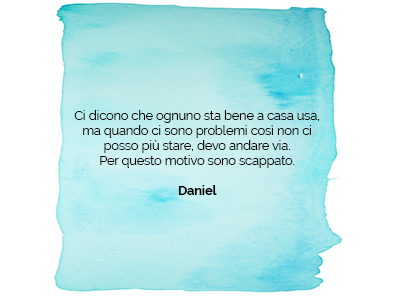
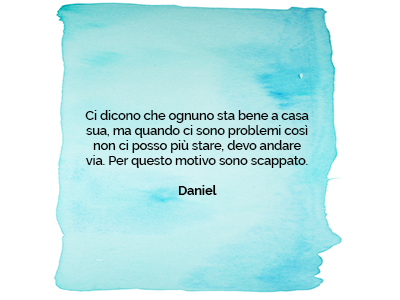
redirect

Changed region(s): [[0.18, 0.36, 0.81, 0.57]]

diff --git a/cosa.html b/cosa.html
@@ -15,7 +15,7 @@
 
 
 <!--testo-->
-<div style="text-align:justify">
+<div id="storia">
 
 <p>L’”utopia realizzata” a Riace è venuta dal mare. Come dal mare sono venuti i Bronzi. Ma a cambiare il volto della città, a farla letteralmente rinascere, ripopolare e arricchirsi (in tutti i sensi) non sono state le attività turistiche per la presenza dei due famosi guerrieri ripescati in fondo al mare davanti a Riace, ma proprio i migranti che hanno avviato una serie di attività
 artigianali ed imprenditoriali che hanno determinato la rivitalizzazione del paese, che ha ridato una speranza a chi è arrivato ma anche a chi ha accolto. La cittadina calabrese, sindaco Mimmo Lucano, ha cominciato a diventare una “comunità ideale” all’indomani dell’arrivo di una barca carica di migranti curdi nel 1998. Invece di respingerli li hanno accolti. Quel giorno il destino di Riace ha cambiato verso. Recentemente la rivista Fortune ha inserito il sindaco di Riace Lucano al quarantesimo posto della classifica dei cinquanta leader più influenti del mondo per il suo impegno nel campo dell’immigrazione. A Riace non ci sono centri d’accoglienza. Ai migranti viene data una casa vera. Le case svuotate dall’emigrazione nel nord dell’Italia o all’estero. In Argentina in particolare. Le case abbandonate sono così ritornate a ripopolarsi. E’ un modello che, scrive Fortune, “ha messo contro Lucano la mafia e lo Stato, ma è stato studiato come possibile soluzione alla crisi
@@ -25,7 +25,7 @@ dei rifugiati in Europa“.</p>
 
 <br></br>
 <div style="text-align: center">
-<a href="page.html" > <img src="menu.png" style="max-width:50%; max-height:50%"</a>
+<a href="menu.html" > <img src="menu.png" style="max-width:50%; max-height:50%"</a>
 </div>
 
 

diff --git a/menu.html b/menu.html
@@ -5,13 +5,14 @@
 <title>RIACE villaggio globale</title>
 <link rel="stylesheet" href="file.css" type="text/css">
 <link rel="stylesheet" type="text/css" href="//fonts.googleapis.com/css?family=Raleway" />
-<script type="text/javascript" src="script.js"></script>
 </head>
 
 <body leftmargin="0" topmargin="0" rightmargin="0" bottommargin="0">
 
 
 
+<!--pagina-->
+<div  onload="downLoad()">
 <!--top header con info-->
 <div id="top-header" class="">
   <div style="text-align:center">
@@ -23,8 +24,7 @@
 </div>
 
 
-<br></br>
-<br></br>
+
 <!--header-->
 <header style="text-align:center">
   <div style="text-align:center"><a> <img class="flex" src="logo.svg" style="max-width:60%;max-height:auto" ></a></div>
@@ -37,6 +37,8 @@
   <a href="1.html"> <img src="maschera1.png" name="img1"  style="max-width:30%;max-height:auto;"
   onMouseOver="document.img1.src='foto1.png';"
   onMouseOut="document.img1.src='maschera1.png'; "border="0"></a>
+
+
 
 
 
@@ -84,10 +86,8 @@
 
     <a href="index.html"> <img src="TORNA.png" style="max-width:10%"></a>
     <a href="cosa.html"> <img src="cosa.png" style="max-width:10%"></a>
-
-
 </div>
-
+</div>
 
 
 

diff --git a/spinner.html b/spinner.html
@@ -1,0 +1,70 @@
+<!DOCTYPE html>
+<html>
+<head>
+<meta charset="utf-8" http-equiv="refresh" content="5;URL=menu.html">
+<title>loading...</title>
+<link rel="stylesheet" href="file.css" type="text/css">
+<link rel="stylesheet" type="text/css" href="//fonts.googleapis.com/css?family=Raleway" />
+<style>
+
+@keyframes scaling {
+  0%{transform:scale(0); opacity:0.5}
+  100%{transform:scale(1)}
+}
+@keyframes rotation {
+  0%{transform:rotate(0deg)}
+  100%{transform:rotate(360deg)}
+}
+
+body{
+  background-color: #99e9ed;
+}
+.spinner{
+  animation: rotation 2s infinite linear;
+  position:absolute;
+  top:50%;
+  left:45%;
+  align-items: center;
+
+
+
+}
+.dot{
+  animation: scaling 1s infinite alternate ease-in-out;
+  height:40px;
+  width:40px;
+  background-color:white;
+  display:inline-block;
+  margin:10px;
+  border-radius:50%;
+}
+.due{
+  animation-delay:1s;
+}
+</style>
+</head>
+
+<body leftmargin="0" topmargin="0" rightmargin="0" bottommargin="0">
+  <div class="spinner">
+  <div class="dot uno"></div>
+  <div class="dot due"></div>
+  </div>
+
+
+
+</body>
+
+
+
+
+
+
+
+
+
+
+
+
+
+
+</html>

diff --git a/file.css b/file.css
@@ -14,7 +14,7 @@ h1 {
   font-family: Raleway;
   font-style: normal;
   font-weight: normal;
-  font-size: 2.500em ;
+  font-size: 50px;
   margin-left: 25%;
   margin-right: 25%;
   text-align:center;
@@ -24,7 +24,7 @@ h2 {
   font-family: Raleway;
   font-style: normal;
   font-weight: normal;
-  font-size: 1.600em;
+  font-size: 25px;
   margin-left: 25%;
   margin-right: 25%;
   text-align:center;
@@ -34,11 +34,10 @@ p {
   font-family: Raleway;
   font-style: normal;
   font-weight: normal;
-  font-size: 0.600em;
+  font-size: 15px;
   text-align: justify;
 
 }
 #footer{
   width: 100%;
-
 }

diff --git a/index.html b/index.html
@@ -203,7 +203,7 @@ img {vertical-align: middle;}
     <span class="dot" onclick="currentSlide(16)"></span>
   </div>
   <div style="text-align:center">
-    <a href="menu.html"  > <img src="visita.png" style="max-width:50%" /></a>
+    <a href="spinner.html"  > <img src="visita.png" style="max-width:50%" /></a>
   </div>
 
 </div>

diff --git a/1.html b/1.html
@@ -39,7 +39,7 @@ dei rifugiati in Europa“.</p>
 </div>
 <br></br>
 <div style="text-align: center">
-<a href="page.html" > <img src="menu.png" style="max-width:30%; max-height:30%"</a>
+<a href="menu.html" > <img src="menu.png" style="max-width:30%; max-height:30%"</a>
 </div>
 
 
